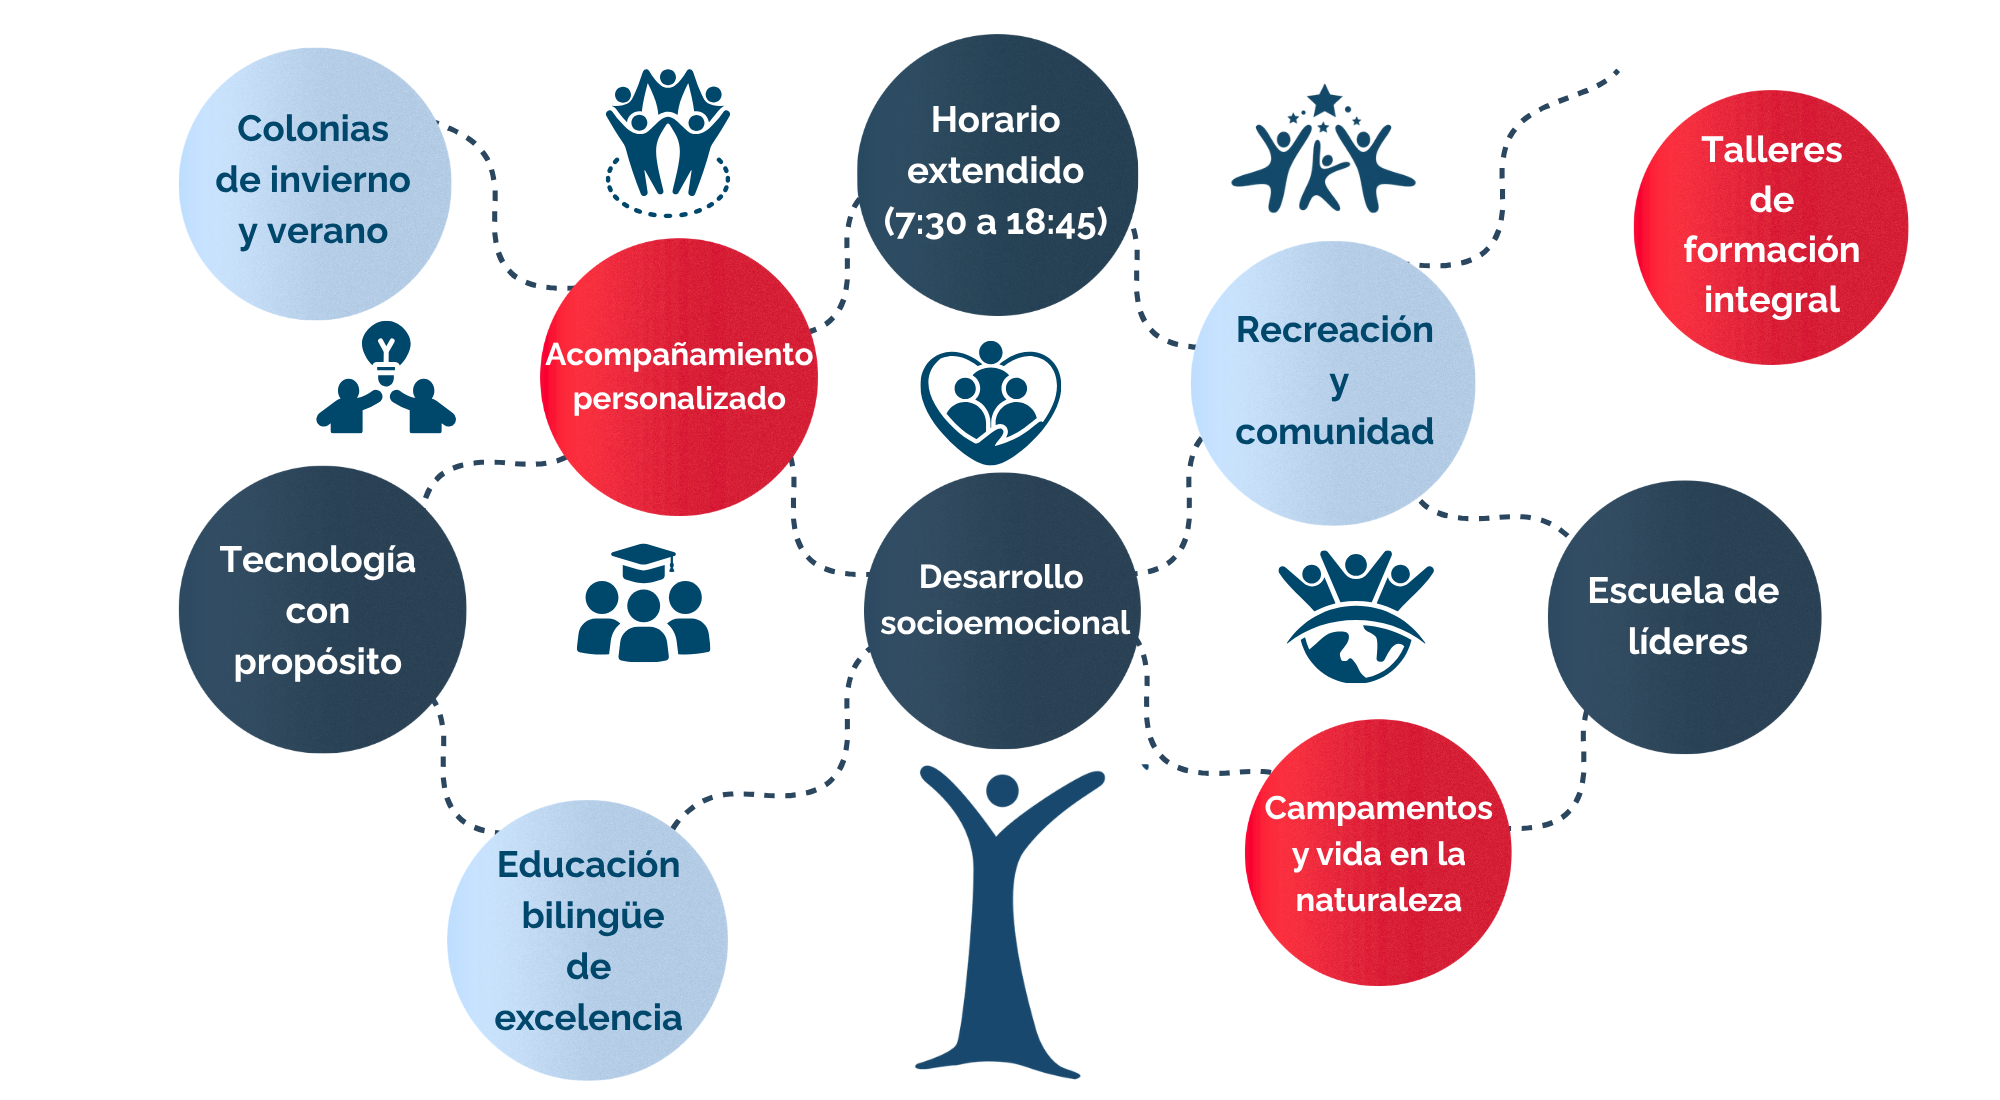
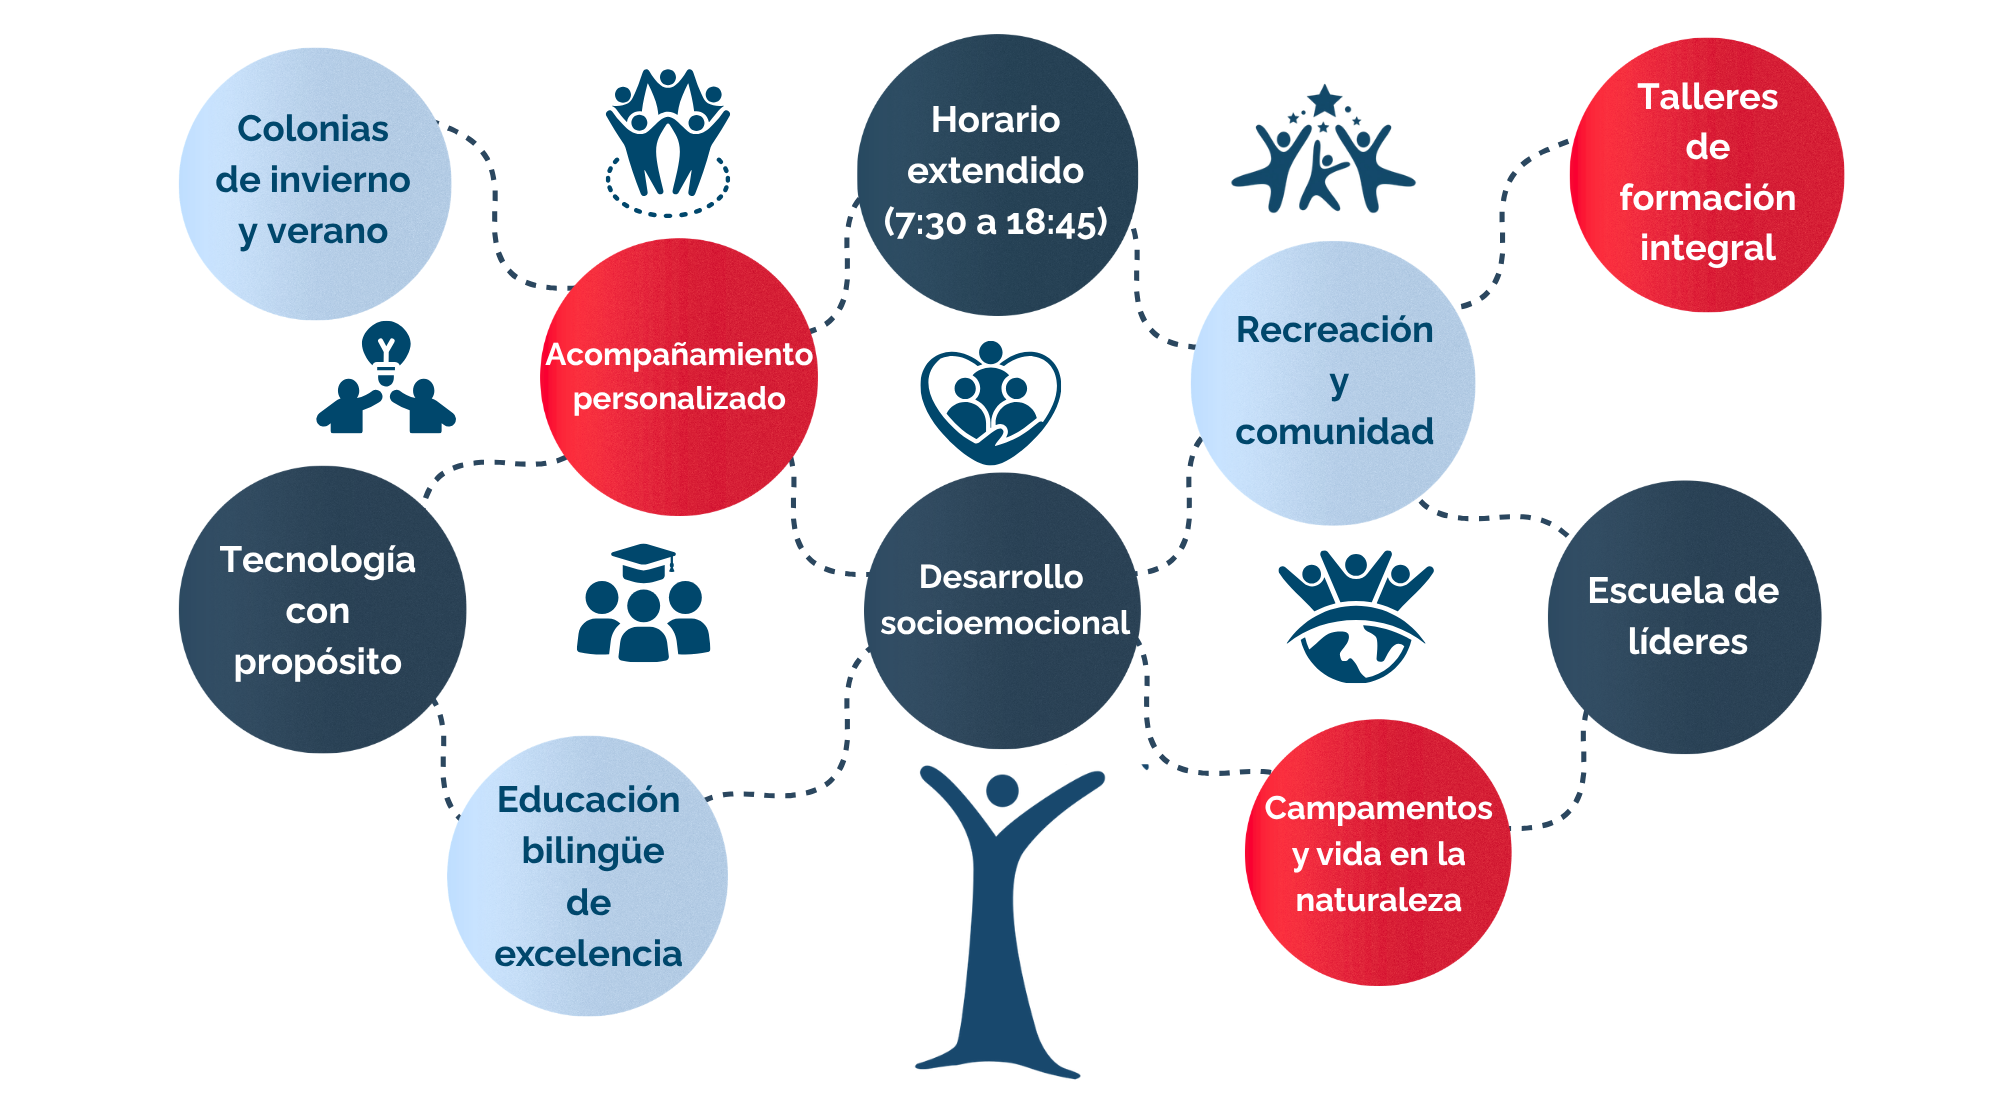
Inicio: actualizar imagen árbol a nueva version en img/

Changed region(s): [[0.744, 0.0309, 0.961, 0.34], [0.217, 0.6491, 0.372, 0.9891], [0.713, 0.2164, 0.744, 0.2473]]

diff --git a/index.html b/index.html
@@ -151,7 +151,7 @@
         <h2 class="section__title">Lo que nos distingue</h2>
         <p style="max-width:620px;margin:0 auto">El Colegio San Carlos Diálogos es una institución laica, bilingüe e inclusiva ubicada en Olivos. Acompañamos a niños, niñas y jóvenes desde el Nivel Inicial hasta la Escuela Secundaria, promoviendo una educación académicamente sólida, centrada en las personas y conectada con el mundo actual.</p>
       </div>
-      <img src="img/Copia%20de%20que%20nos%20hace%20%C3%BAnicos.png" alt="Lo que nos hace únicos" class="arbol-valores-img slide-up" style="max-width:1100px;width:100%;display:block;margin:0 auto 48px" />
+      <img src="img/que%20nos%20hace%20%C3%BAnicos.png" alt="Lo que nos hace únicos" class="arbol-valores-img slide-up" style="max-width:1100px;width:100%;display:block;margin:0 auto 48px" />
       <div class="inicio-grilla">
         <div class="ig-item ig-tall"><img src="img/inicio-grilla/vertical-fogon.jpg" alt="Fogón" loading="lazy" /></div>
         <div class="ig-item"><img src="img/inicio-grilla/horizontal-ted.jpg" alt="TED" loading="lazy" /></div>
